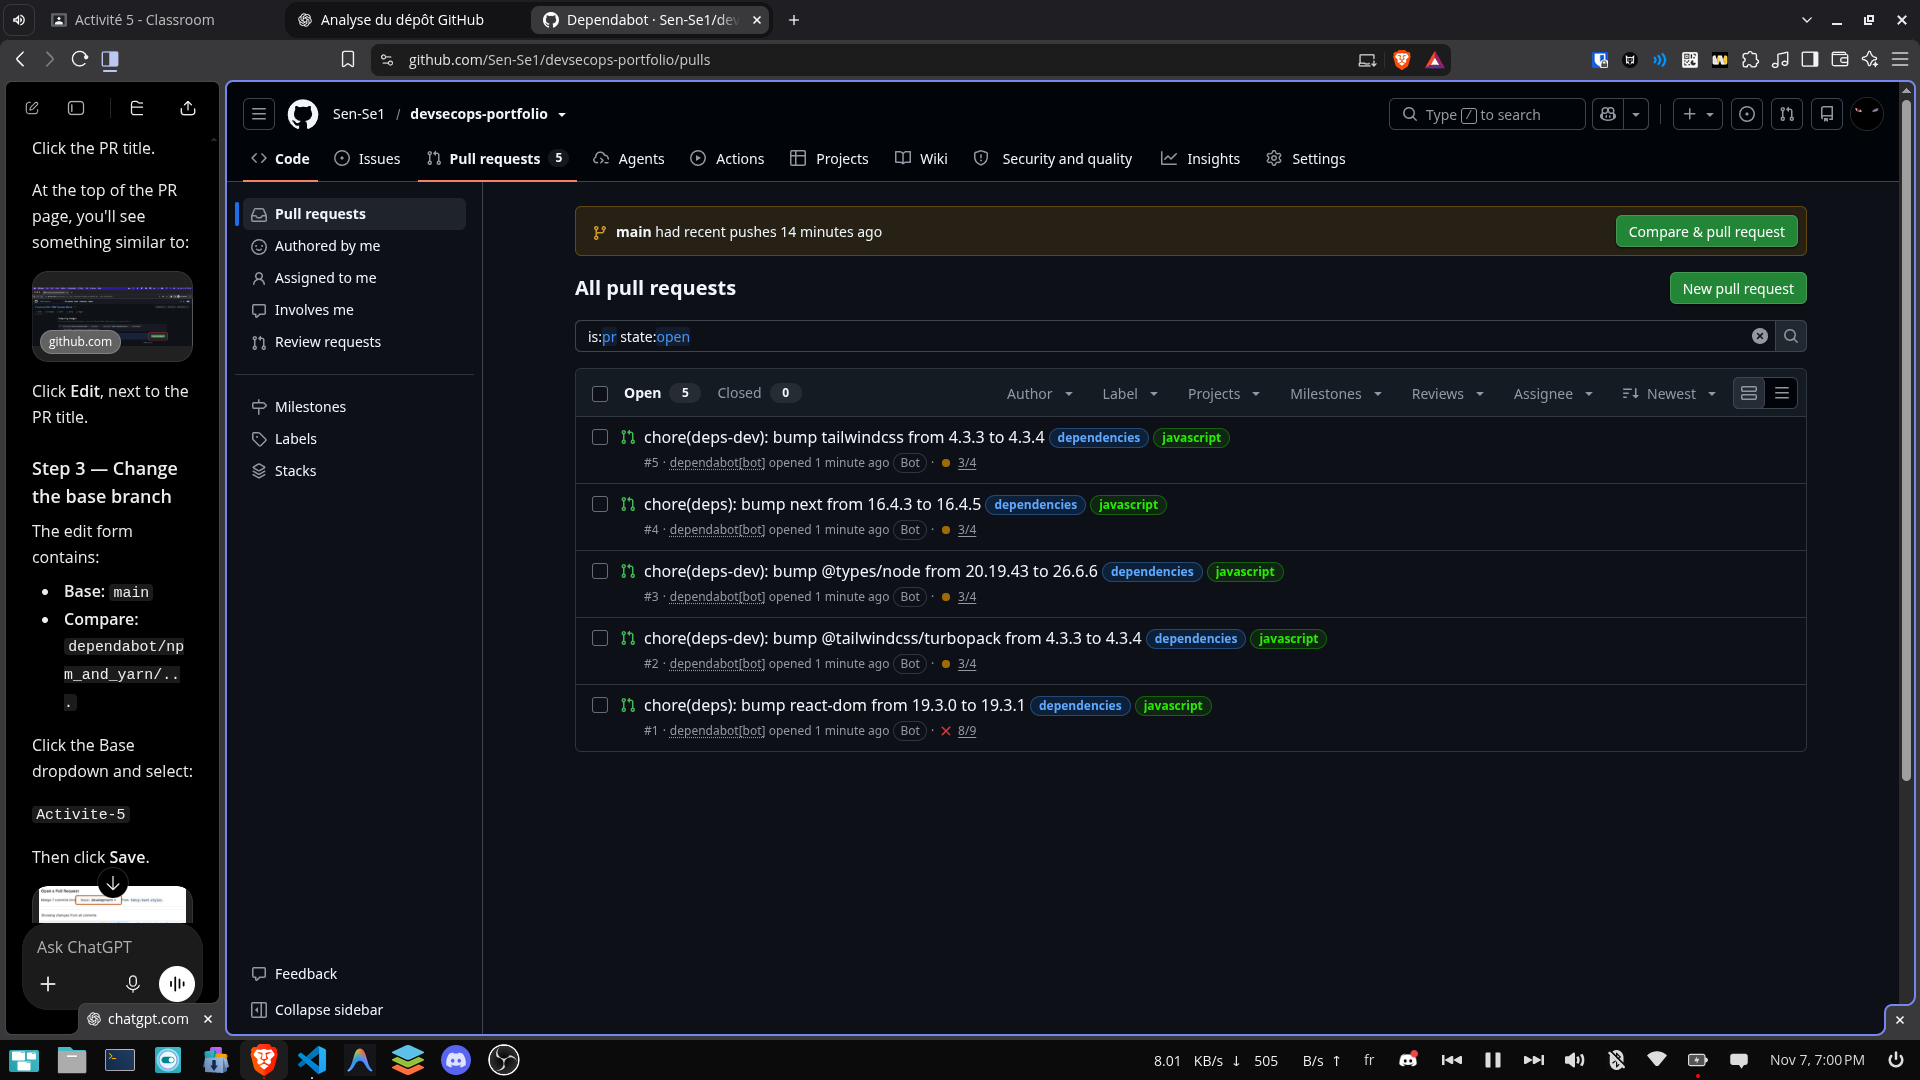
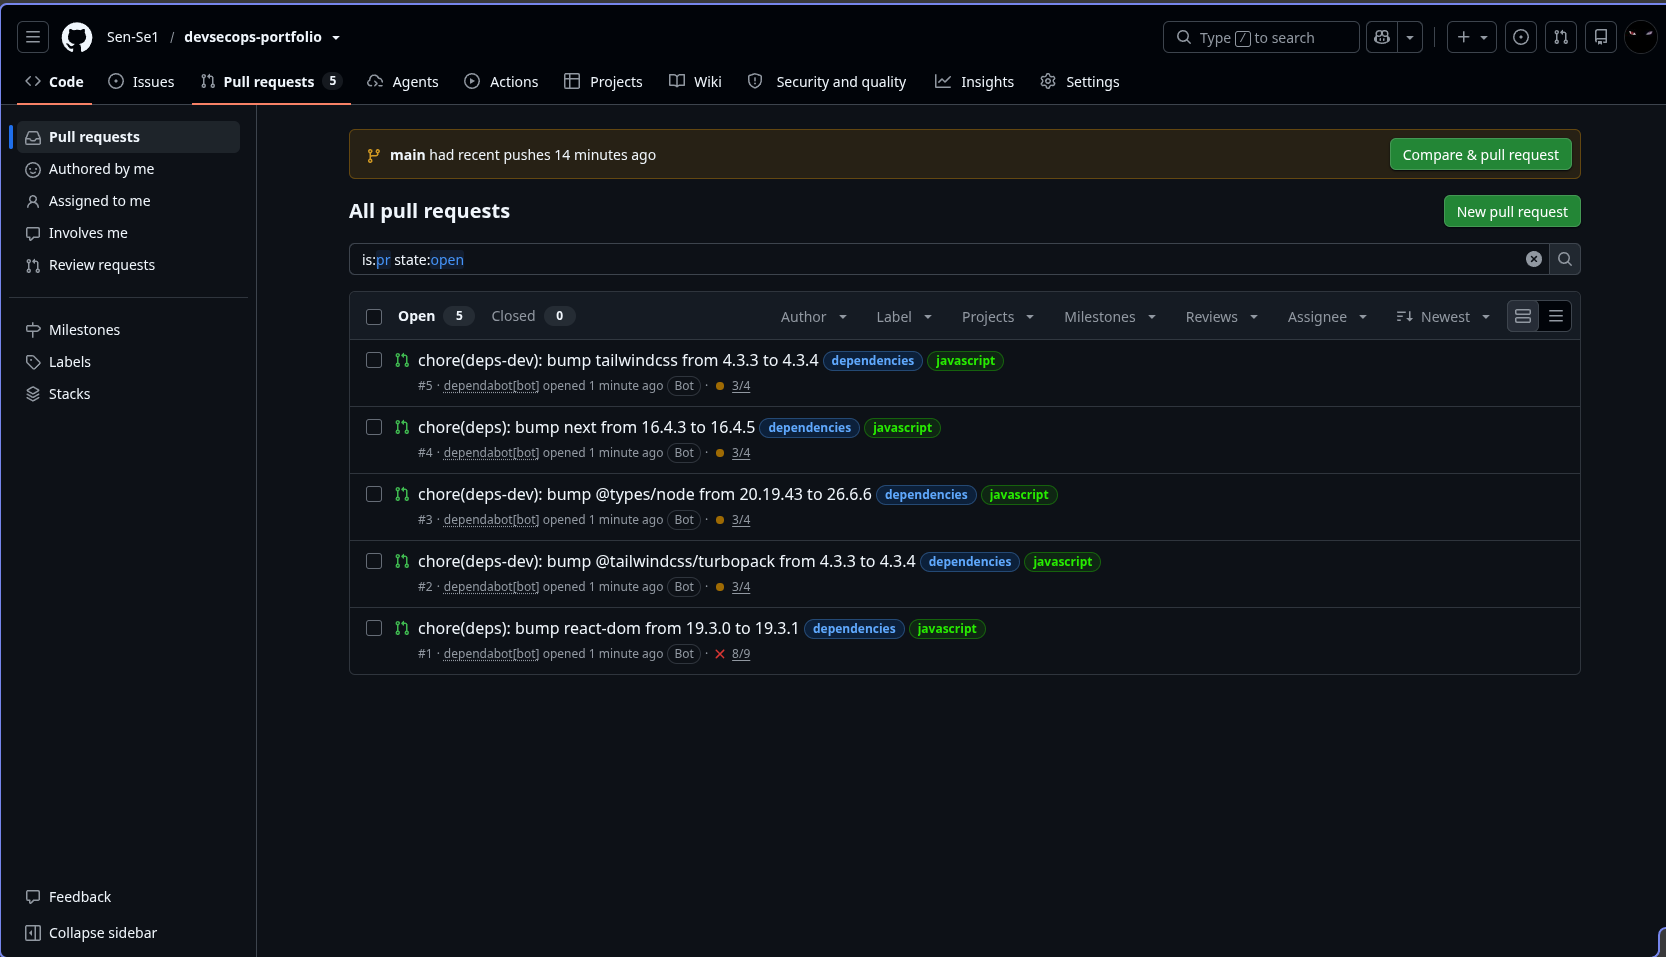
Refactor code structure for improved readability and maintainability

Changed region(s): [[0.0, 0.0, 1.0, 1.0], [0.6867, 0.3636, 0.7179, 0.3939], [0.4682, 0.303, 0.4994, 0.3333]]

diff --git a/README.md b/README.md
@@ -313,7 +313,7 @@ The following GitHub Actions jobs are required before merging:
 
 The following screenshot demonstrates GitHub preventing a Pull Request from being merged because a required CI/CD check failed.
 
-![Pull Request blocked by a failed required status check](images/81-blocked-pull-request.png)
+![Pull Request blocked by a failed required status check](images/56-blocked-pull-request.png)
 
 #### Security Benefits
 
@@ -327,3 +327,4 @@ The following screenshot demonstrates GitHub preventing a Pull Request from bein
 #### Conclusion
 
 Mandatory CI/CD status checks ensure that code changes are tested and security-validated before integration into the main branch. This reduces the risk of introducing vulnerable or unstable code into the project.
+
